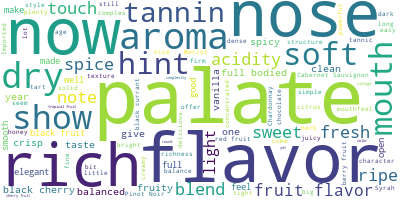
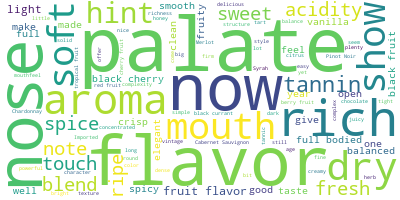
updated ajax call

diff --git a/client/src/App.js b/client/src/App.js
@@ -13,7 +13,7 @@ class App extends Component {
 			.then(res => res.blob())
 			.then(function(myBlob) {
 				var objectURL = URL.createObjectURL(myBlob);
-				document.querySelector('img').src = objectURL;
+				document.getElementById('wordCloud').src = objectURL;
 			})
 			.catch(err => err);
 	}
@@ -31,9 +31,10 @@ class App extends Component {
 					<Tweet tweetId='1343271342985019393' options={{width: '750'}} className="App-twitter-embed"/>
 					<Tweet tweetId='1340087528838344704' options={{width: '750'}} className="App-twitter-embed"/>
 					<Tweet tweetId='1336491671505268742' options={{width: '750'}} className="App-twitter-embed"/>
-					<img src="" alt=""></img>
-					{this.children}
-					<p className="App-intro">{this.state.apiResponse}</p>
+				</div>
+				<h5 className="App-heading">WORD CLOUD</h5>
+				<div className="App-flex-container">
+					<img src="" id="wordCloud" alt=""></img>
 				</div>
 			</div>
 		);

diff --git a/api/routes/index.js b/api/routes/index.js
@@ -24,24 +24,6 @@ router.get('/word-cloud', function(req, res, next) {
 		res.sendFile(path.join(__dirname, '../wordcloud.png')); 
 	}); 
 
-	// var spawn = require("child_process").spawnSync; 
-		
-	// Parameters passed in spawn - 
-	// 1. type_of_script 
-	// 2. list containing Path of the script 
-	//    and arguments for the script  
-		
-	// E.g : http://localhost:3000/name?firstname=Mike&lastname=Will 
-	// so, first name = Mike and last name = Will 
-	
-	// var process = spawn('python', [path.join(__dirname,'../wordCloud.py')] ); 
-
-	// Takes stdout data from script which executed 
-	// with arguments and send this data to res object 
-	
-	// process.stdout.on('data', function(data) { 
-		// res.sendFile(path.join(__dirname, '../wordcloud.png')); 
-	// }); 
 });
 
 module.exports = router;

diff --git a/client/src/css/App.css b/client/src/css/App.css
@@ -11,7 +11,6 @@
   flex-direction: column;
   align-items: center;
   justify-content: center;
-	min-width: 300px;
 }
 
 .App-title { 
